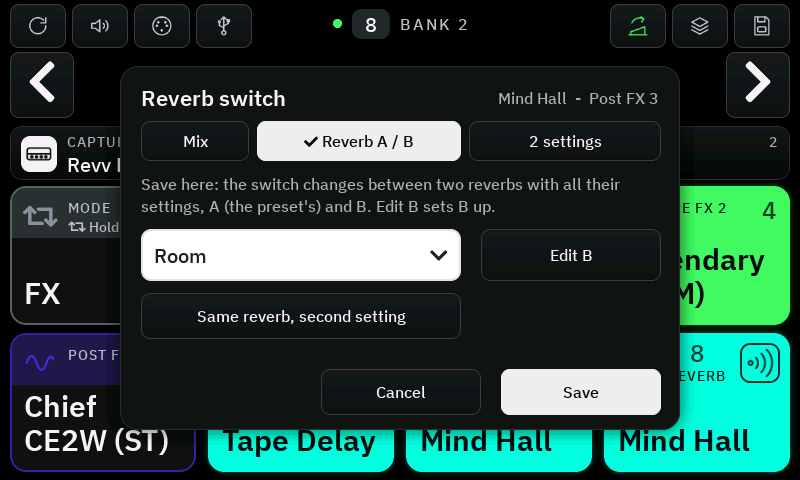
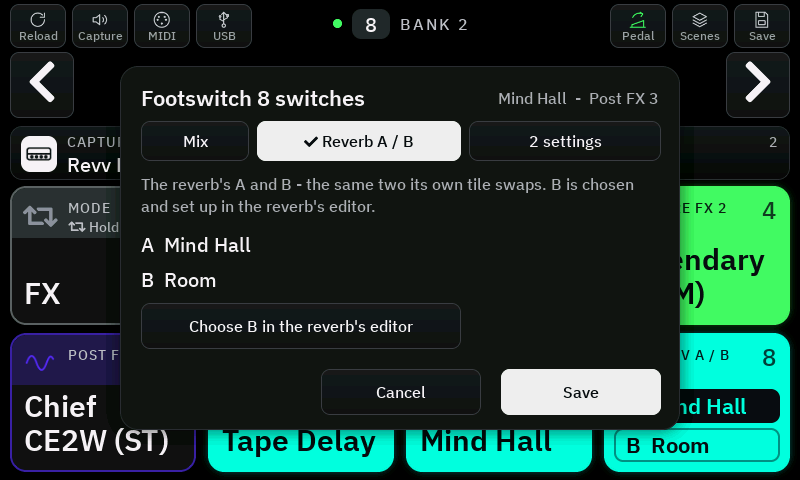
Manual: footswitch 8's tile and dialog, mode tile, top bar words; new screenshots

diff --git a/docs/manual.md b/docs/manual.md
@@ -13,8 +13,9 @@ Every function in detail. The short illustrated guide is in the [README](../READ
   colour; everything else is dark with a **coloured border** and its top row on the dimmed colour – the difference
   shows from across the stage. All
   names use one size.
-- **↻** (top left) reads everything from the Nano again: preset names, the current preset and the library.
-- The **speaker** symbol next to it sets the capture volume of the current preset; **MIDI** and **USB** follow.
+- The buttons of the top bar carry their word under the symbol. **Reload** (top left) reads everything from the
+  Nano again: preset names, the current preset and the library. **Capture** next to it sets the capture volume of
+  the current preset; **MIDI** and **USB** follow.
 - **Swipe left / right**: next / previous preset.
 - **Swipe up – gig view**: the tiles fill the screen with larger names, and a slim bar on top shows the
   connection, preset number, bank, preset name, unsaved changes and the mode (PRESETS / SCENES / FX). **Swipe down**: back.
@@ -54,7 +55,8 @@ The numbers here are the switches' functions; where they sit is up to the [tile 
 Footswitches 1 and 2 act when you lift your foot (they have a held function). Holding footswitch 1 for 0.6 s opens
 the [looper mode](#looper-mode-a-looper-app-on-a-phone); holding footswitch 2 changes between the scenes and the
 bank's presets, as the scenes button does (while the tuner is open, footswitch 2 closes it at once). Tiles 1 and 2
-say so under their caption: *Hold: Looper* and *Hold: Scenes* (or *Presets*).
+say so under their caption: *Hold: Looper* and *Hold: Scenes* (or *Presets*). Tile 1 is always *MODE* and shows the
+mode the controller is in – *Presets*, *Songs* (set list), *Scenes* or *FX*; bank, preset and song are in the top bar.
 
 ## Long presses
 
@@ -245,9 +247,12 @@ of the preset.
 ## Reverb switch (footswitch 8)
 
 <img src="images/38-reverb-settings.png" alt="" width="49%"> <img src="images/37-reverb-settings-tile.png" alt="" width="49%">
+<img src="images/42-mix-dialog.png" alt="" width="49%"> <img src="images/41-mix-tile.png" alt="" width="49%">
 
-The dialog has three tabs, one for each thing footswitch 8 can do. **The tab in front when you tap SAVE is what the
-switch does** from then on; the one in use carries a tick.
+The dialog is titled **Footswitch 8 switches** and has three tabs, one for each thing the switch can do. **The tab
+in front when you tap SAVE is what the switch does** from then on; the one in use carries a tick. Tile 8 shows the
+switch's two choices as two rows – Pos 1 / Pos 2 with their mix, reverb A / B, or the two settings – the one that
+is in filled, the other one outlined. So it never looks like the reverb's own tile (tile 7).
 
 - **MIX**: footswitch 8 sets the reverb's Mix to Pos 1 or Pos 2. Moving a slider plays that mix;
   **SAVE** stores both values on the controller, for this preset. The Nano's expression pedal has no part in it and
@@ -257,16 +262,15 @@ switch does** from then on; the one in use carries a tick.
   preset. The setting itself is still in the Nano's preset, so an expression pedal would still move the reverb:
   **FREE PEDAL** in this dialog removes it from the preset (the other expression settings stay as they are, the
   switch keeps its positions). The button only shows while the reverb is on the pedal.
-- **REVERB A / B**: choose a second reverb (B) for this preset – another reverb, or with **Same reverb, second
-  setting** the same one again: then the switch changes between two complete settings of it (mix, decay, damping …)
-  without a gap in the sound. Footswitch 8 then switches between the preset's
-  reverb (A) and B; the Nano has one reverb slot, so the controller swaps the model and sends the stored values
-  (takes about half a second). Tile 8 shows reverb B and lights up while it runs; tile 7 shows the reverb in the slot. **EDIT B** loads B and opens the FX editor to set it up. Reverb B is stored on the
-  controller, per preset. If you save the preset while B is active, B becomes the preset's reverb.
-  Loading a preset – also the one that is on, once more – always brings back its own reverb (A); B stays stored.
-  Reverb B is the second effect of the reverb's own tile (tile 7), and that tile always swaps it. Saved on the
-  *MIX* or *2 SETTINGS* tab, footswitch 8 is the mix switch (or the settings) and the tile keeps its A / B – the
-  reverb's type on one switch, its amount on the other. *None* in the list removes B.
+- **REVERB A / B**: footswitch 8 swaps the reverb's A and B – the same two its own tile (tile 7) swaps. The tab
+  shows both; **Choose B in the reverb's editor** opens the reverb's FX editor at its
+  [second effect](#second-effect-a-and-b-on-an-fx-slot): another reverb, or the same one again for a second
+  complete setting of it (mix, decay, damping …) without a gap in the sound. B is chosen and set up there only.
+  The Nano has one reverb slot, so for another reverb the controller swaps the model and sends the stored values
+  (about half a second). If you save the preset while B is active, B becomes the preset's reverb; loading a preset
+  always brings back its own reverb (A).
+  Saved on the *MIX* or *2 SETTINGS* tab, footswitch 8 is the mix switch (or the settings) and the reverb's tile
+  keeps its A / B – the reverb's type on one switch, its amount on the other.
 - **2 SETTINGS**: footswitch 8 changes between two named settings of the preset's reverb – for example *Room* and
   *Atmos* – with all its controls (mix, decay, damping …). The reverb stays the same, so there is no gap in the
   sound. To set one up: set the reverb the way you want it (in the FX editor of tile 7 or on the Nano), then tap
